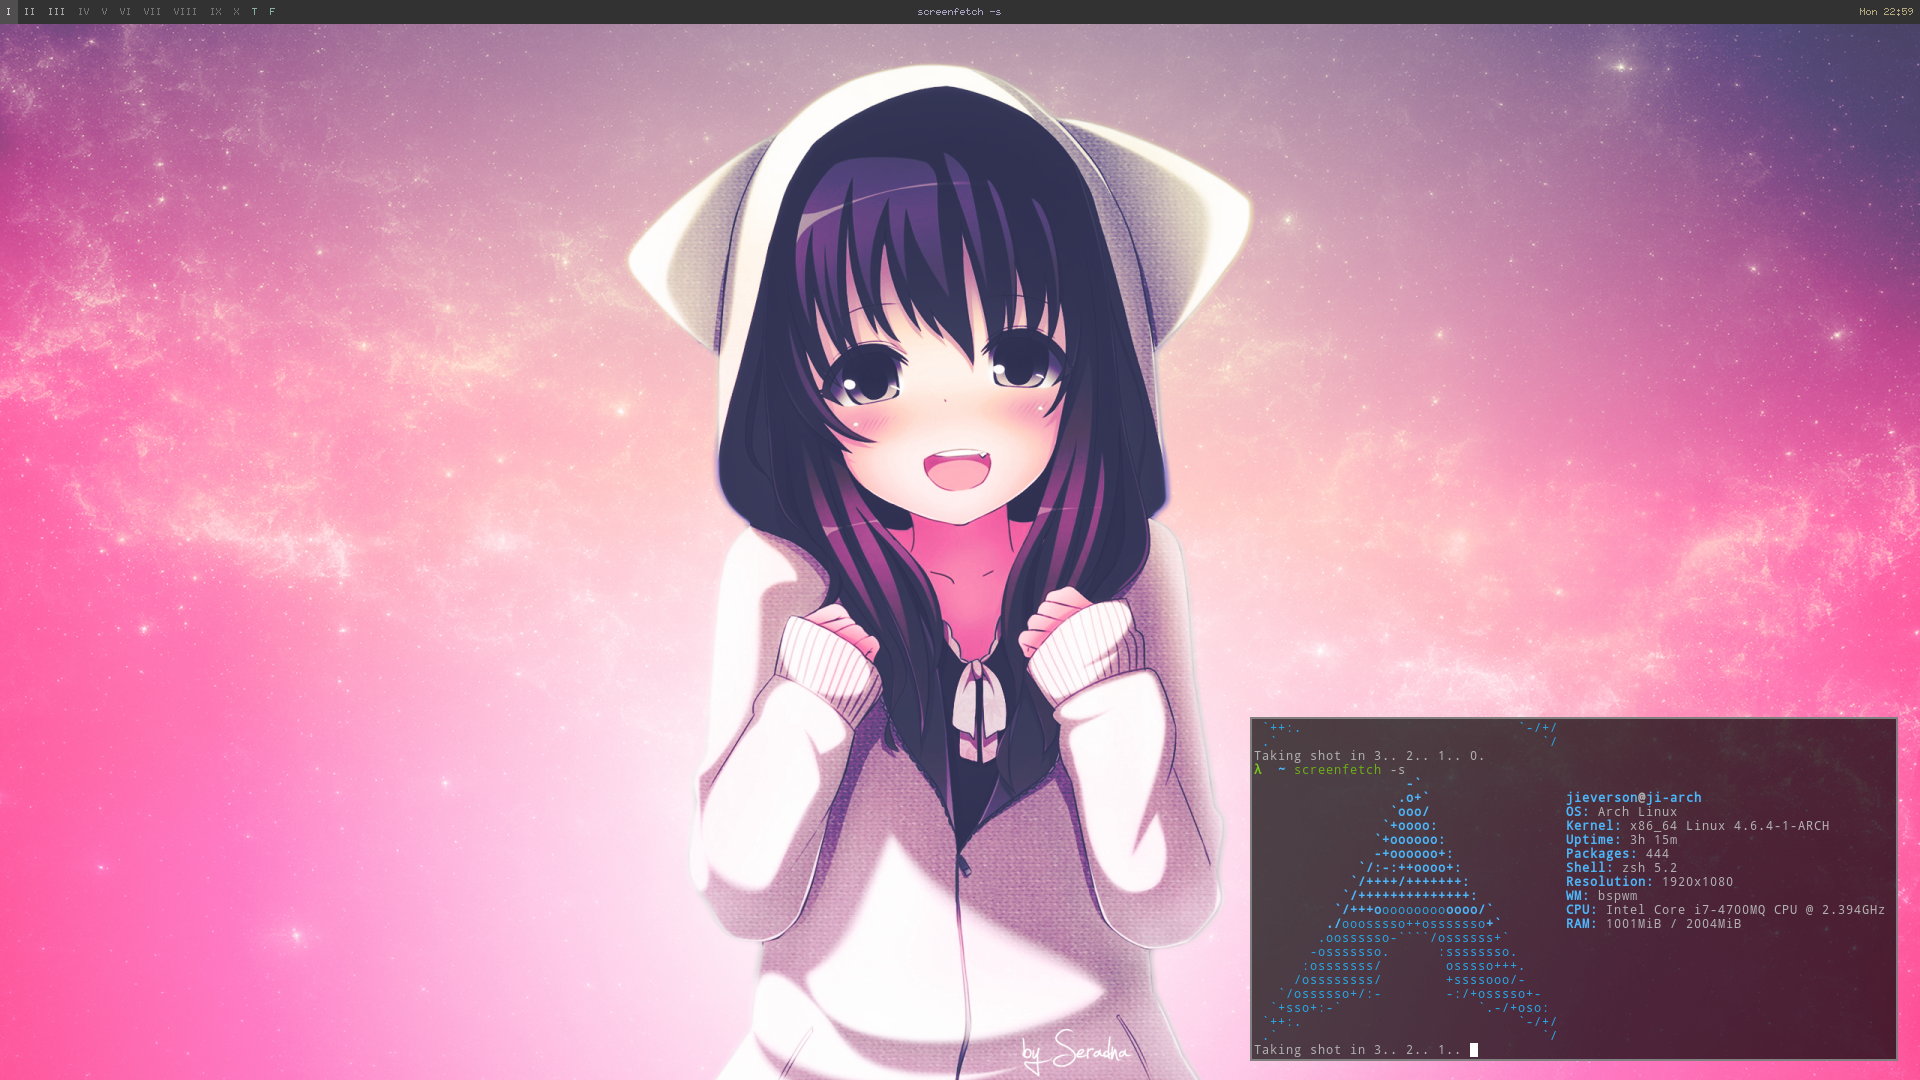
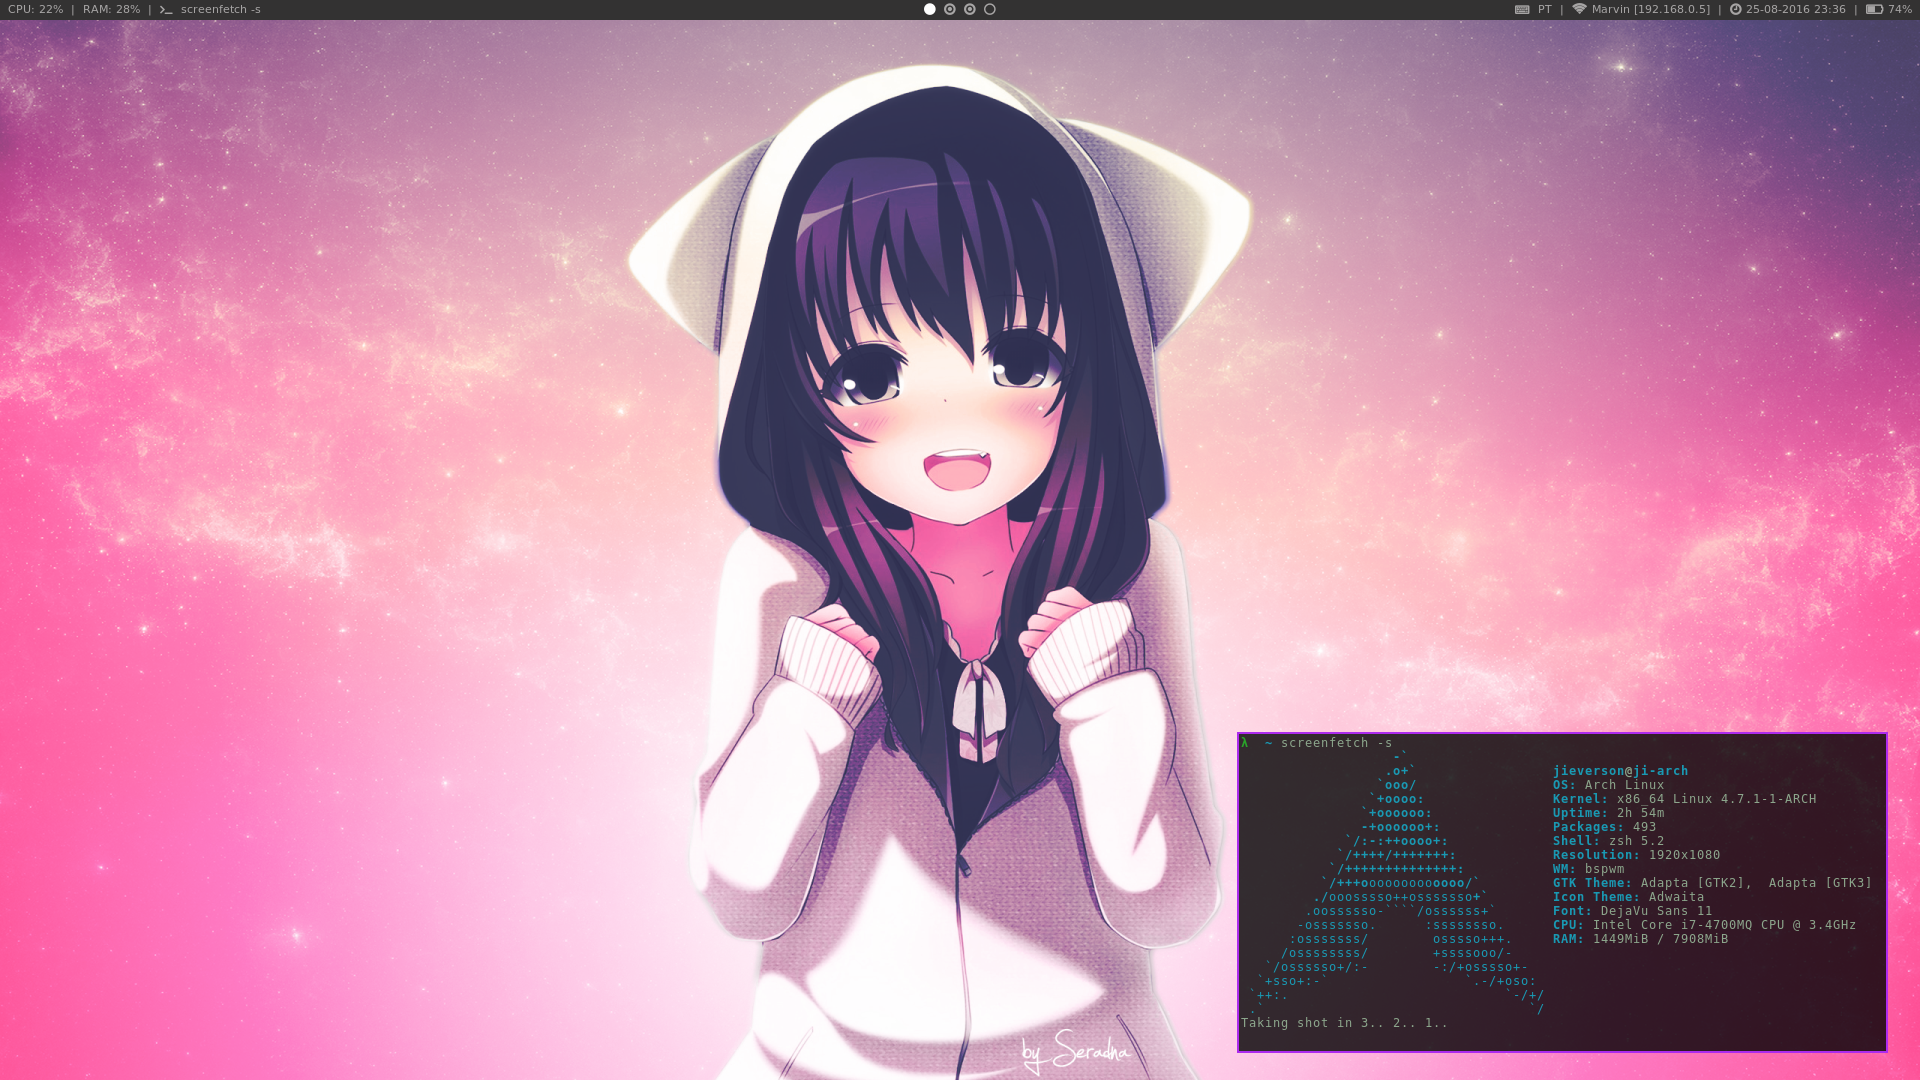
new bar - lemonbuddy

Changed region(s): [[0.625, 0.6417, 1.0, 1.0], [0.0, 0.0, 1.0, 0.0306]]

diff --git a/README.md b/README.md
@@ -20,7 +20,7 @@ $ ~/.dotfiles/update.sh
   <img src="screenshots/dev.png" />
 </p>
 <p align="center">
-  <img src="screenshots/ricing.png" />
+  <img src="screenshots/web.png" />
 </p>
 <p align="center">
   <img src="screenshots/raspbian.png" />
